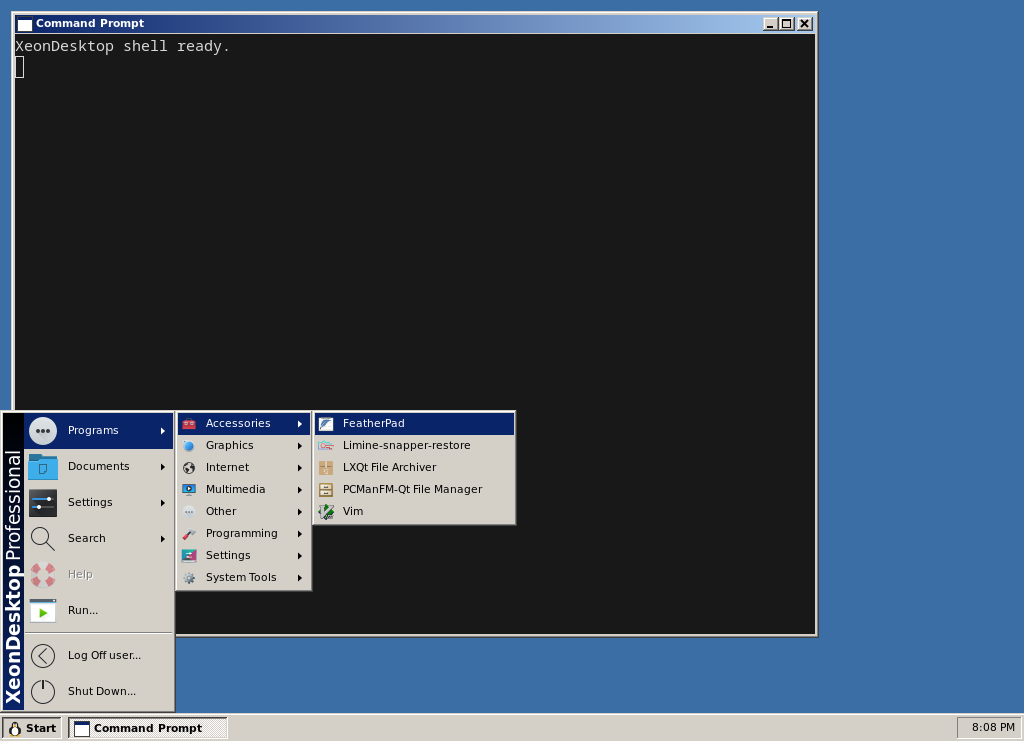
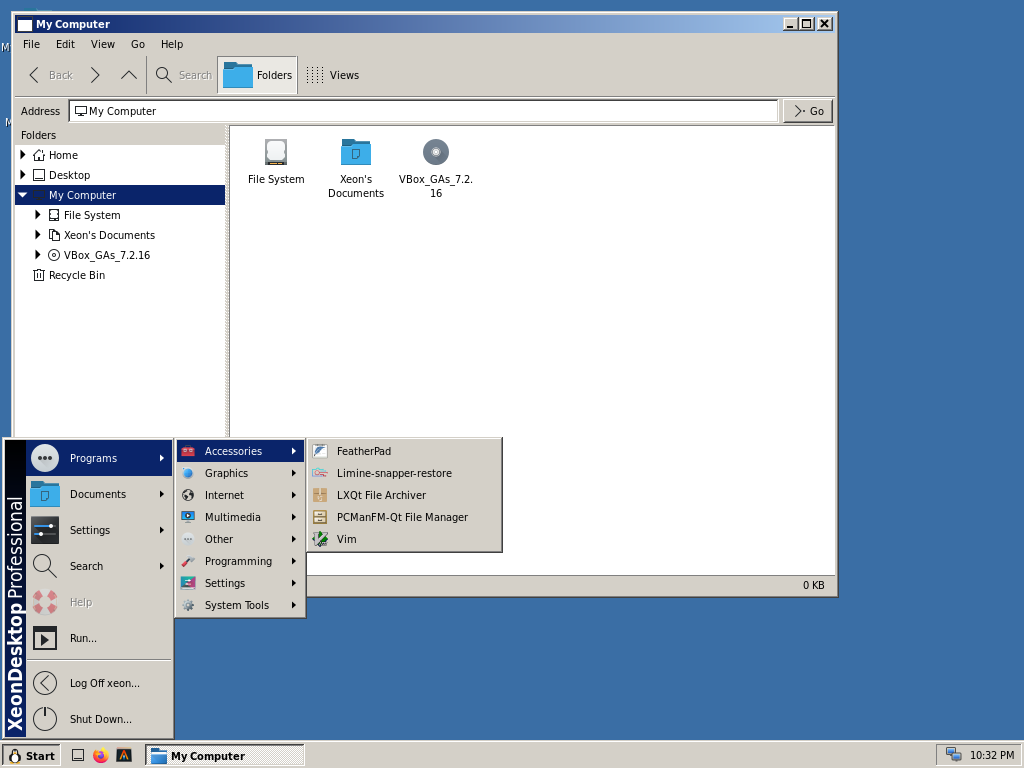
README: new screenshots
Retaken at 1024x768 in headless sessions, and new ones of Aero (on the
GPU build, with blurred glass), Aero Snap with Task Manager, Watercolor
and the Windows Security dialog.

diff --git a/README.md b/README.md
@@ -1,20 +1,27 @@
 # XeonDesktop
 
-A Windows 2000/XP-style desktop environment for Linux (Wayland), written in
-strict C23. See [docs/ARCHITECTURE.md](docs/ARCHITECTURE.md) for the design.
+A Windows 2000, XP and 7-style desktop environment for Linux (Wayland),
+written in strict C23. See [docs/ARCHITECTURE.md](docs/ARCHITECTURE.md) for
+the design.
 
 | Classic (Windows 2000) | Luna (XP) |
 |---|---|
-| ![Classic style with the Start menu open](docs/screenshots/classic-start-menu.png) | ![Luna style with the Start menu open](docs/screenshots/luna-desktop.png) |
-| **Display Properties** | **Shut Down** |
-| ![Display Properties, Appearance tab](docs/screenshots/display-properties.png) | ![Shut Down dialog](docs/screenshots/shut-down.png) |
+| ![Classic style: the Windows 2000 Start menu with Programs and Accessories open over My Computer](docs/screenshots/classic-start-menu.png) | ![Luna style: the Windows XP Start menu over My Documents in Tiles view](docs/screenshots/luna-desktop.png) |
+| **Aero (Windows 7)** | **Aero Snap** |
+| ![Aero style: the Windows 7 Start menu and a window, with blurred glass](docs/screenshots/aero-desktop.png) | ![Two windows snapped side by side, with Task Manager's Performance tab and its CPU meter in the notification area](docs/screenshots/aero-snap.png) |
+| **Watercolor (Whistler)** | **Display Properties** |
+| ![Watercolor style: Taskbar and Start Menu Properties over My Computer](docs/screenshots/watercolor-desktop.png) | ![Display Properties, Appearance tab](docs/screenshots/display-properties.png) |
+| **Shut Down** | **Windows Security (Ctrl+Alt+Delete)** |
+| ![Shut Down dialog](docs/screenshots/shut-down.png) | ![The XeonDesktop Security dialog](docs/screenshots/windows-security.png) |
 
 All artwork is drawn by the theme engine; no Microsoft assets are used.
 The Time Zone map draws Natural Earth's land outlines (public domain,
 naturalearthdata.com).
 The Start button logo is Tux, the Linux mascot originally drawn by Larry
 Ewing (lewing@isc.tamu.edu) with The GIMP; ours is a simplified procedural
-rendition. Screenshots are from a nested development session.
+rendition. Screenshots are from headless test sessions at 1024x768; the
+Aero ones use the GPU build (blurred glass), and their wallpaper is a
+gradient made for them.
 
 ## Build
 
